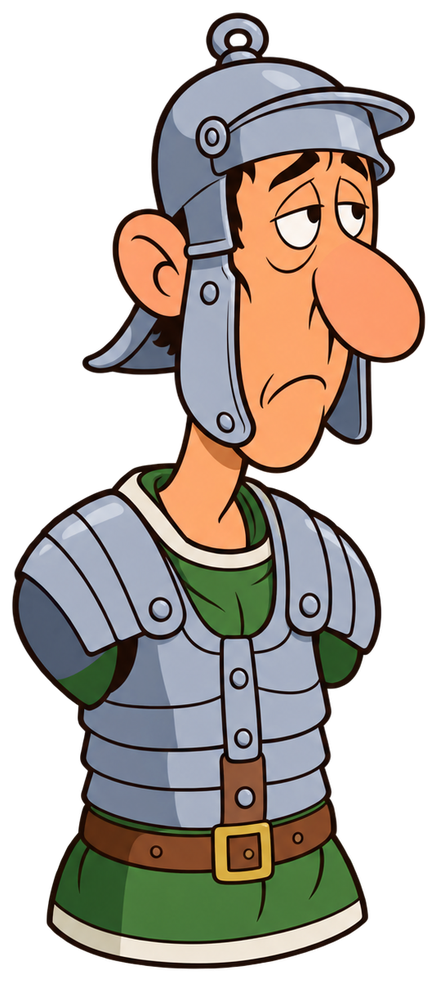
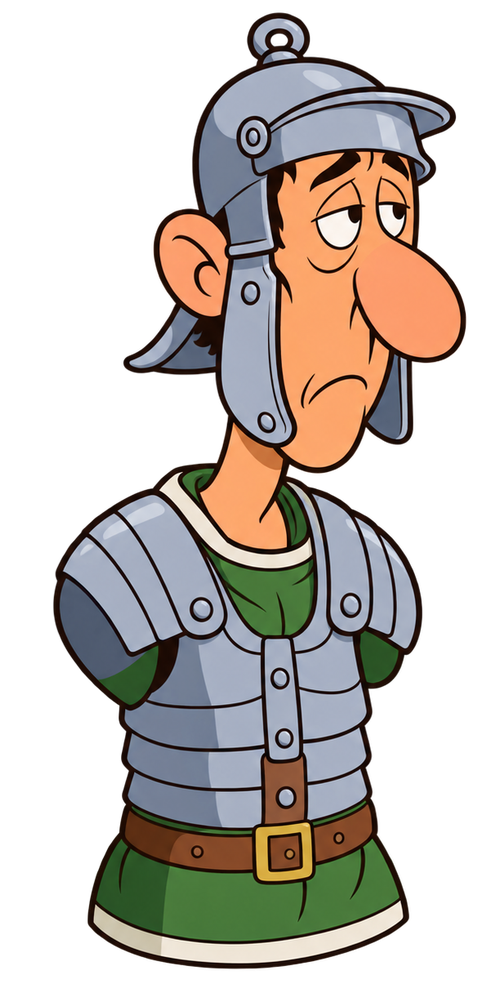
Gaul slice: centre the bodies on the hips and measure the shoulders
The bodies' torsos sat off the picture's centre (Asterix's wings and hair on
one side), so legs and arms hung beside them. ingest.py pads them so the
torso's middle is the centre (prep keeps the padding), and the rigs take the
measured widths: Asterix's shoulders 10 px from the axis instead of Utrace's
42, the legionary's 11 and his hips 8.

diff --git a/live/assets.js b/live/assets.js
@@ -1,1 +1,1 @@
-window.ASSETS = {"ab_field": {"w": 977, "h": 764, "crop": [14, 14, 991, 778], "scale": 1.0}, "ab_negotiate": {"w": 994, "h": 770, "crop": [14, 14, 1008, 784], "scale": 1.0}, "ab_overclock": {"w": 962, "h": 968, "crop": [14, 14, 976, 982], "scale": 1.0}, "ab_registry": {"w": 949, "h": 940, "crop": [14, 14, 963, 954], "scale": 1.0}, "ab_volley": {"w": 1001, "h": 963, "crop": [12, 14, 1013, 977], "scale": 1.0}, "baltika_arm": {"w": 215, "h": 448, "crop": [2, 2, 217, 450], "scale": 1.0}, "baltika_body": {"w": 545, "h": 658, "crop": [2, 2, 547, 660], "scale": 1.0}, "baltika_foot": {"w": 367, "h": 245, "crop": [2, 2, 369, 247], "scale": 1.0}, "baltika_leg": {"w": 197, "h": 426, "crop": [2, 2, 199, 428], "scale": 1.0}, "bar": {"w": 281, "h": 211, "crop": [2, 2, 283, 213], "scale": 1.0}, "batbank": {"w": 409, "h": 375, "crop": [2, 2, 411, 377], "scale": 1.0}, "batch_arm": {"w": 209, "h": 371, "crop": [2, 2, 211, 373], "scale": 1.0}, "batch_body": {"w": 801, "h": 691, "crop": [2, 0, 803, 691], "scale": 1.0}, "batch_foot": {"w": 373, "h": 239, "crop": [2, 2, 375, 241], "scale": 1.0}, "batch_leg": {"w": 197, "h": 372, "crop": [2, 2, 199, 374], "scale": 1.0}, "blade": {"w": 279, "h": 503, "crop": [2, 2, 281, 505], "scale": 1.0}, "boss_arm": {"w": 195, "h": 351, "crop": [2, 2, 197, 353], "scale": 1.0}, "boss_body": {"w": 888, "h": 682, "crop": [2, 2, 890, 684], "scale": 1.0}, "boss_foot": {"w": 377, "h": 211, "crop": [2, 2, 379, 213], "scale": 1.0}, "boss_leg": {"w": 162, "h": 326, "crop": [2, 2, 164, 328], "scale": 1.0}, "bug_arm": {"w": 56, "h": 170, "crop": [0, 0, 56, 170], "scale": 1.0}, "bug_body": {"w": 799, "h": 891, "crop": [2, 2, 801, 893], "scale": 1.0}, "bug_foot": {"w": 107, "h": 53, "crop": [2, 6, 109, 59], "scale": 1.0}, "bug_leg": {"w": 193, "h": 802, "crop": [2, 2, 195, 804], "scale": 1.0}, "buga_arm": {"w": 187, "h": 431, "crop": [2, 2, 189, 433], "scale": 1.0}, "buga_body": {"w": 613, "h": 567, "crop": [2, 2, 615, 569], "scale": 1.0}, "buga_foot": {"w": 380, "h": 233, "crop": [2, 2, 382, 235], "scale": 1.0}, "buga_leg": {"w": 155, "h": 423, "crop": [2, 2, 157, 425], "scale": 1.0}, "bugg_arm": {"w": 180, "h": 440, "crop": [2, 2, 182, 442], "scale": 1.0}, "bugg_body": {"w": 602, "h": 598, "crop": [2, 2, 604, 600], "scale": 1.0}, "bugg_foot": {"w": 378, "h": 235, "crop": [2, 2, 380, 237], "scale": 1.0}, "bugg_leg": {"w": 158, "h": 416, "crop": [2, 2, 160, 418], "scale": 1.0}, "bugl_arm": {"w": 228, "h": 397, "crop": [2, 2, 230, 399], "scale": 1.0}, "bugl_body": {"w": 705, "h": 611, "crop": [2, 0, 707, 611], "scale": 1.0}, "bugl_foot": {"w": 426, "h": 235, "crop": [2, 2, 428, 237], "scale": 1.0}, "bugl_leg": {"w": 183, "h": 374, "crop": [2, 2, 185, 376], "scale": 1.0}, "bugu_arm": {"w": 219, "h": 481, "crop": [2, 2, 221, 483], "scale": 1.0}, "bugu_body": {"w": 590, "h": 595, "crop": [2, 2, 592, 597], "scale": 1.0}, "bugu_foot": {"w": 412, "h": 247, "crop": [2, 2, 414, 249], "scale": 1.0}, "bugu_leg": {"w": 203, "h": 469, "crop": [2, 2, 205, 471], "scale": 1.0}, "cage": {"w": 979, "h": 1335, "crop": [23, 64, 1002, 1399], "scale": 1.0}, "cart": {"w": 283, "h": 461, "crop": [3, 2, 286, 463], "scale": 1.0}, "cart_b": {"w": 360, "h": 498, "crop": [2, 2, 362, 500], "scale": 1.0}, "cauldron": {"w": 800, "h": 897, "crop": [112, 98, 912, 995], "scale": 1.0}, "cell": {"w": 199, "h": 260, "crop": [2, 2, 201, 262], "scale": 1.0}, "cherk_arm": {"w": 232, "h": 504, "crop": [2, 2, 234, 506], "scale": 1.0}, "cherk_body": {"w": 744, "h": 630, "crop": [2, 2, 746, 632], "scale": 1.0}, "cherk_foot": {"w": 453, "h": 271, "crop": [2, 2, 455, 273], "scale": 1.0}, "cherk_leg": {"w": 217, "h": 487, "crop": [2, 2, 219, 489], "scale": 1.0}, "chest": {"w": 288, "h": 313, "crop": [14, 14, 302, 327], "scale": 1.0}, "core": {"w": 1022, "h": 1020, "crop": [259, 0, 1281, 1020], "scale": 1.0}, "crac": {"w": 414, "h": 293, "crop": [2, 2, 416, 295], "scale": 1.0}, "crates": {"w": 283, "h": 362, "crop": [2, 2, 285, 364], "scale": 1.0}, "crpt_arm": {"w": 200, "h": 356, "crop": [2, 2, 202, 358], "scale": 1.0}, "crpt_body": {"w": 692, "h": 683, "crop": [2, 2, 694, 685], "scale": 1.0}, "crpt_foot": {"w": 409, "h": 243, "crop": [2, 2, 411, 245], "scale": 1.0}, "crpt_leg": {"w": 151, "h": 346, "crop": [2, 2, 153, 348], "scale": 1.0}, "desk": {"w": 512, "h": 520, "crop": [2, 2, 514, 522], "scale": 1.0}, "dock": {"w": 316, "h": 268, "crop": [2, 2, 318, 270], "scale": 1.0}, "ferrero_arm": {"w": 240, "h": 434, "crop": [2, 2, 242, 436], "scale": 1.0}, "ferrero_body": {"w": 884, "h": 608, "crop": [2, 2, 886, 610], "scale": 1.0}, "ferrero_foot": {"w": 457, "h": 218, "crop": [2, 2, 459, 220], "scale": 1.0}, "ferrero_leg": {"w": 179, "h": 418, "crop": [2, 2, 181, 420], "scale": 1.0}, "firerack": {"w": 293, "h": 557, "crop": [2, 2, 295, 559], "scale": 1.0}, "gem": {"w": 182, "h": 244, "crop": [2, 2, 184, 246], "scale": 1.0}, "gem_b": {"w": 181, "h": 245, "crop": [2, 2, 183, 247], "scale": 1.0}, "gem_c": {"w": 181, "h": 242, "crop": [2, 2, 183, 244], "scale": 1.0}, "heal": {"w": 250, "h": 237, "crop": [2, 2, 252, 239], "scale": 1.0}, "hero_arm": {"w": 253, "h": 910, "crop": [2, 2, 255, 912], "scale": 1.0}, "hero_body": {"w": 697, "h": 544, "crop": [2, 2, 699, 546], "scale": 1.0}, "hero_foot": {"w": 327, "h": 222, "crop": [2, 2, 329, 224], "scale": 1.0}, "hero_leg": {"w": 208, "h": 845, "crop": [2, 2, 210, 847], "scale": 1.0}, "holopillar": {"w": 160, "h": 412, "crop": [2, 2, 162, 414], "scale": 1.0}, "hr_asterix_arm": {"w": 246, "h": 860, "crop": [2, 2, 248, 862], "scale": 1.0}, "hr_asterix_body": {"w": 763, "h": 979, "crop": [8, 8, 771, 987], "scale": 1.0}, "hr_asterix_foot": {"w": 655, "h": 451, "crop": [2, 2, 657, 453], "scale": 1.0}, "hr_asterix_leg": {"w": 219, "h": 765, "crop": [2, 2, 221, 767], "scale": 1.0}, "hr_ba_arm": {"w": 260, "h": 888, "crop": [2, 2, 262, 890], "scale": 1.0}, "hr_ba_body": {"w": 777, "h": 606, "crop": [2, 2, 779, 608], "scale": 1.0}, "hr_ba_foot": {"w": 341, "h": 206, "crop": [2, 2, 343, 208], "scale": 1.0}, "hr_ba_leg": {"w": 195, "h": 848, "crop": [2, 2, 197, 850], "scale": 1.0}, "hr_qa_arm": {"w": 179, "h": 844, "crop": [2, 2, 181, 846], "scale": 1.0}, "hr_qa_body": {"w": 703, "h": 572, "crop": [8, 8, 711, 580], "scale": 1.0}, "hr_qa_foot": {"w": 364, "h": 216, "crop": [8, 8, 372, 224], "scale": 1.0}, "hr_qa_leg": {"w": 178, "h": 888, "crop": [2, 2, 180, 890], "scale": 1.0}, "hr_ser_arm": {"w": 258, "h": 884, "crop": [2, 2, 260, 886], "scale": 1.0}, "hr_ser_body": {"w": 853, "h": 609, "crop": [2, 2, 855, 611], "scale": 1.0}, "hr_ser_foot": {"w": 314, "h": 220, "crop": [2, 2, 316, 222], "scale": 1.0}, "hr_ser_leg": {"w": 220, "h": 860, "crop": [2, 2, 222, 862], "scale": 1.0}, "hr_trc_arm": {"w": 261, "h": 831, "crop": [2, 2, 263, 833], "scale": 1.0}, "hr_trc_body": {"w": 710, "h": 599, "crop": [2, 2, 712, 601], "scale": 1.0}, "hr_trc_foot": {"w": 386, "h": 252, "crop": [2, 2, 388, 254], "scale": 1.0}, "hr_trc_leg": {"w": 159, "h": 837, "crop": [2, 2, 161, 839], "scale": 1.0}, "hut": {"w": 963, "h": 949, "crop": [32, 32, 995, 981], "scale": 1.0}, "ic_amount": {"w": 311, "h": 241, "crop": [14, 14, 325, 255], "scale": 1.0}, "ic_area": {"w": 211, "h": 210, "crop": [14, 14, 225, 224], "scale": 1.0}, "ic_cache": {"w": 269, "h": 223, "crop": [2, 2, 271, 225], "scale": 1.0}, "ic_chain": {"w": 362, "h": 276, "crop": [14, 14, 376, 290], "scale": 1.0}, "ic_cryo": {"w": 375, "h": 239, "crop": [14, 14, 389, 253], "scale": 1.0}, "ic_dur": {"w": 180, "h": 274, "crop": [14, 14, 194, 288], "scale": 1.0}, "ic_firewall": {"w": 807, "h": 931, "crop": [14, 14, 821, 945], "scale": 1.0}, "ic_fork": {"w": 317, "h": 270, "crop": [14, 14, 331, 284], "scale": 1.0}, "ic_haste": {"w": 218, "h": 249, "crop": [2, 2, 220, 251], "scale": 1.0}, "ic_homing": {"w": 289, "h": 195, "crop": [2, 2, 291, 197], "scale": 1.0}, "ic_hp": {"w": 302, "h": 190, "crop": [2, 2, 304, 192], "scale": 1.0}, "ic_magnet": {"w": 223, "h": 225, "crop": [2, 2, 225, 227], "scale": 1.0}, "ic_mine": {"w": 271, "h": 230, "crop": [2, 2, 273, 232], "scale": 1.0}, "ic_orbit": {"w": 264, "h": 201, "crop": [2, 2, 266, 203], "scale": 1.0}, "ic_packet": {"w": 930, "h": 612, "crop": [14, 14, 944, 626], "scale": 1.0}, "ic_ping": {"w": 256, "h": 187, "crop": [2, 2, 258, 189], "scale": 1.0}, "ic_power": {"w": 172, "h": 232, "crop": [2, 2, 174, 234], "scale": 1.0}, "ic_regress": {"w": 822, "h": 783, "crop": [14, 14, 836, 797], "scale": 1.0}, "ic_repair": {"w": 922, "h": 901, "crop": [14, 14, 936, 915], "scale": 1.0}, "ic_req": {"w": 974, "h": 811, "crop": [14, 14, 988, 825], "scale": 1.0}, "ic_retry": {"w": 206, "h": 205, "crop": [2, 2, 208, 207], "scale": 1.0}, "ic_shield": {"w": 955, "h": 816, "crop": [14, 14, 969, 830], "scale": 1.0}, "ic_speed": {"w": 367, "h": 203, "crop": [2, 2, 369, 205], "scale": 1.0}, "ic_storm": {"w": 385, "h": 314, "crop": [14, 14, 399, 328], "scale": 1.0}, "ic_tchain": {"w": 972, "h": 982, "crop": [14, 14, 986, 996], "scale": 1.0}, "ic_trace": {"w": 292, "h": 226, "crop": [2, 2, 294, 228], "scale": 1.0}, "ic_turret": {"w": 206, "h": 267, "crop": [14, 14, 220, 281], "scale": 1.0}, "ic_udp": {"w": 341, "h": 245, "crop": [14, 14, 355, 259], "scale": 1.0}, "ic_x_cache": {"w": 294, "h": 262, "crop": [6, 6, 300, 268], "scale": 1.0}, "ic_x_chain": {"w": 288, "h": 259, "crop": [6, 6, 294, 265], "scale": 1.0}, "ic_x_cryo": {"w": 276, "h": 286, "crop": [6, 6, 282, 292], "scale": 1.0}, "ic_x_fork": {"w": 331, "h": 288, "crop": [6, 6, 337, 294], "scale": 1.0}, "ic_x_homing": {"w": 285, "h": 230, "crop": [6, 6, 291, 236], "scale": 1.0}, "ic_x_mine": {"w": 275, "h": 230, "crop": [6, 6, 281, 236], "scale": 1.0}, "ic_x_orbit": {"w": 258, "h": 230, "crop": [6, 6, 264, 236], "scale": 1.0}, "ic_x_packet": {"w": 978, "h": 702, "crop": [14, 14, 992, 716], "scale": 1.0}, "ic_x_ping": {"w": 262, "h": 223, "crop": [6, 6, 268, 229], "scale": 1.0}, "ic_x_regress": {"w": 868, "h": 852, "crop": [14, 14, 882, 866], "scale": 1.0}, "ic_x_req": {"w": 1001, "h": 872, "crop": [12, 14, 1013, 886], "scale": 1.0}, "ic_x_retry": {"w": 285, "h": 261, "crop": [6, 6, 291, 267], "scale": 1.0}, "ic_x_shield": {"w": 991, "h": 900, "crop": [14, 14, 1005, 914], "scale": 1.0}, "ic_x_storm": {"w": 281, "h": 292, "crop": [6, 6, 287, 298], "scale": 1.0}, "ic_x_tchain": {"w": 953, "h": 866, "crop": [14, 14, 967, 880], "scale": 1.0}, "ic_x_trace": {"w": 297, "h": 205, "crop": [6, 6, 303, 211], "scale": 1.0}, "ic_x_turret": {"w": 349, "h": 248, "crop": [6, 6, 355, 254], "scale": 1.0}, "ic_x_udp": {"w": 269, "h": 266, "crop": [6, 6, 275, 272], "scale": 1.0}, "keg_arm": {"w": 254, "h": 465, "crop": [2, 2, 256, 467], "scale": 1.0}, "keg_body": {"w": 623, "h": 586, "crop": [2, 2, 625, 588], "scale": 1.0}, "keg_foot": {"w": 475, "h": 309, "crop": [2, 2, 477, 311], "scale": 1.0}, "keg_leg": {"w": 206, "h": 463, "crop": [2, 2, 208, 465], "scale": 1.0}, "legion_arm": {"w": 182, "h": 682, "crop": [2, 2, 184, 684], "scale": 1.0}, "legion_body": {"w": 422, "h": 965, "crop": [8, 8, 430, 973], "scale": 1.0}, "legion_foot": {"w": 784, "h": 503, "crop": [2, 2, 786, 505], "scale": 1.0}, "legion_leg": {"w": 205, "h": 872, "crop": [2, 2, 207, 874], "scale": 1.0}, "logq_arm": {"w": 259, "h": 395, "crop": [2, 2, 261, 397], "scale": 1.0}, "logq_body": {"w": 702, "h": 575, "crop": [2, 2, 704, 577], "scale": 1.0}, "logq_foot": {"w": 424, "h": 303, "crop": [2, 2, 426, 305], "scale": 1.0}, "logq_leg": {"w": 182, "h": 389, "crop": [2, 2, 184, 391], "scale": 1.0}, "loreal_arm": {"w": 232, "h": 498, "crop": [2, 2, 234, 500], "scale": 1.0}, "loreal_body": {"w": 792, "h": 605, "crop": [2, 2, 794, 607], "scale": 1.0}, "loreal_foot": {"w": 498, "h": 292, "crop": [2, 2, 500, 294], "scale": 1.0}, "loreal_leg": {"w": 194, "h": 479, "crop": [2, 2, 196, 481], "scale": 1.0}, "manifold": {"w": 366, "h": 406, "crop": [2, 2, 368, 408], "scale": 1.0}, "mars_arm": {"w": 198, "h": 486, "crop": [2, 2, 200, 488], "scale": 1.0}, "mars_body": {"w": 627, "h": 480, "crop": [2, 2, 629, 482], "scale": 1.0}, "mars_foot": {"w": 425, "h": 278, "crop": [2, 2, 427, 280], "scale": 1.0}, "mars_leg": {"w": 185, "h": 454, "crop": [2, 2, 187, 456], "scale": 1.0}, "mast": {"w": 241, "h": 412, "crop": [2, 2, 243, 414], "scale": 1.0}, "menhir": {"w": 400, "h": 971, "crop": [325, 26, 725, 997], "scale": 1.0}, "mond_arm": {"w": 229, "h": 470, "crop": [2, 2, 231, 472], "scale": 1.0}, "mond_body": {"w": 1372, "h": 531, "crop": [2, 2, 1374, 533], "scale": 1.0}, "mond_foot": {"w": 454, "h": 279, "crop": [2, 2, 456, 281], "scale": 1.0}, "mond_leg": {"w": 184, "h": 447, "crop": [2, 2, 186, 449], "scale": 1.0}, "multon_arm": {"w": 230, "h": 485, "crop": [2, 2, 232, 487], "scale": 1.0}, "multon_body": {"w": 625, "h": 538, "crop": [2, 2, 627, 540], "scale": 1.0}, "multon_foot": {"w": 502, "h": 321, "crop": [2, 2, 504, 323], "scale": 1.0}, "multon_leg": {"w": 210, "h": 475, "crop": [2, 2, 212, 477], "scale": 1.0}, "node_arm": {"w": 217, "h": 422, "crop": [2, 2, 219, 424], "scale": 1.0}, "node_body": {"w": 502, "h": 624, "crop": [2, 2, 504, 626], "scale": 1.0}, "node_foot": {"w": 379, "h": 258, "crop": [2, 2, 381, 260], "scale": 1.0}, "node_leg": {"w": 180, "h": 401, "crop": [2, 2, 182, 403], "scale": 1.0}, "orb_arm": {"w": 202, "h": 419, "crop": [2, 2, 204, 421], "scale": 1.0}, "orb_body": {"w": 577, "h": 570, "crop": [2, 2, 579, 572], "scale": 1.0}, "orb_foot": {"w": 411, "h": 275, "crop": [2, 2, 413, 277], "scale": 1.0}, "orb_leg": {"w": 177, "h": 401, "crop": [2, 2, 179, 403], "scale": 1.0}, "outage_arm": {"w": 429, "h": 464, "crop": [2, 3, 431, 467], "scale": 1.0}, "outage_body": {"w": 1065, "h": 613, "crop": [2, 2, 1067, 615], "scale": 1.0}, "outage_foot": {"w": 391, "h": 296, "crop": [2, 2, 393, 298], "scale": 1.0}, "outage_leg": {"w": 318, "h": 494, "crop": [2, 2, 320, 496], "scale": 1.0}, "panel_arm": {"w": 241, "h": 440, "crop": [2, 2, 243, 442], "scale": 1.0}, "panel_body": {"w": 617, "h": 568, "crop": [2, 2, 619, 570], "scale": 1.0}, "panel_foot": {"w": 465, "h": 269, "crop": [2, 2, 467, 271], "scale": 1.0}, "panel_leg": {"w": 203, "h": 404, "crop": [2, 2, 205, 406], "scale": 1.0}, "patch": {"w": 185, "h": 668, "crop": [2, 2, 187, 670], "scale": 1.0}, "pdu": {"w": 224, "h": 260, "crop": [2, 2, 226, 262], "scale": 1.0}, "petfood_arm": {"w": 192, "h": 410, "crop": [2, 2, 194, 412], "scale": 1.0}, "petfood_body": {"w": 583, "h": 594, "crop": [2, 2, 585, 596], "scale": 1.0}, "petfood_foot": {"w": 355, "h": 255, "crop": [2, 2, 357, 257], "scale": 1.0}, "petfood_leg": {"w": 174, "h": 368, "crop": [2, 2, 176, 370], "scale": 1.0}, "pg_arm": {"w": 201, "h": 390, "crop": [2, 2, 203, 392], "scale": 1.0}, "pg_body": {"w": 685, "h": 631, "crop": [2, 2, 687, 633], "scale": 1.0}, "pg_foot": {"w": 362, "h": 257, "crop": [2, 2, 364, 259], "scale": 1.0}, "pg_leg": {"w": 184, "h": 370, "crop": [2, 2, 186, 372], "scale": 1.0}, "prog_arm": {"w": 198, "h": 430, "crop": [2, 2, 200, 432], "scale": 1.0}, "prog_body": {"w": 664, "h": 609, "crop": [2, 2, 666, 611], "scale": 1.0}, "prog_foot": {"w": 436, "h": 279, "crop": [2, 2, 438, 281], "scale": 1.0}, "prog_leg": {"w": 182, "h": 429, "crop": [2, 2, 184, 431], "scale": 1.0}, "rack": {"w": 180, "h": 420, "crop": [2, 2, 182, 422], "scale": 1.0}, "rack_b": {"w": 178, "h": 417, "crop": [2, 2, 180, 419], "scale": 1.0}, "rack_open": {"w": 284, "h": 424, "crop": [2, 2, 286, 426], "scale": 1.0}, "repl_arm": {"w": 368, "h": 445, "crop": [2, 2, 370, 447], "scale": 1.0}, "repl_body": {"w": 1357, "h": 553, "crop": [2, 2, 1359, 555], "scale": 1.0}, "repl_foot": {"w": 417, "h": 249, "crop": [2, 2, 419, 251], "scale": 1.0}, "repl_leg": {"w": 284, "h": 449, "crop": [2, 2, 286, 451], "scale": 1.0}, "royal_arm": {"w": 209, "h": 401, "crop": [2, 2, 211, 403], "scale": 1.0}, "royal_body": {"w": 947, "h": 596, "crop": [2, 2, 949, 598], "scale": 1.0}, "royal_foot": {"w": 368, "h": 243, "crop": [2, 2, 370, 245], "scale": 1.0}, "royal_leg": {"w": 164, "h": 384, "crop": [2, 3, 166, 387], "scale": 1.0}, "rstorm_arm": {"w": 263, "h": 414, "crop": [2, 2, 265, 416], "scale": 1.0}, "rstorm_body": {"w": 803, "h": 649, "crop": [2, 2, 805, 651], "scale": 1.0}, "rstorm_foot": {"w": 413, "h": 245, "crop": [2, 2, 415, 247], "scale": 1.0}, "rstorm_leg": {"w": 236, "h": 386, "crop": [2, 2, 238, 388], "scale": 1.0}, "scanner": {"w": 280, "h": 267, "crop": [2, 2, 282, 269], "scale": 1.0}, "sdesk_body": {"w": 1435, "h": 984, "crop": [2, 2, 1437, 986], "scale": 1.0}, "sk_ba_consult_arm": {"w": 377, "h": 1262, "crop": [2, 2, 379, 1264], "scale": 1.0}, "sk_ba_consult_body": {"w": 1022, "h": 798, "crop": [8, 8, 1030, 806], "scale": 1.0}, "sk_ba_consult_foot": {"w": 1248, "h": 751, "crop": [2, 2, 1250, 753], "scale": 1.0}, "sk_ba_consult_leg": {"w": 291, "h": 1274, "crop": [2, 2, 293, 1276], "scale": 1.0}, "sk_ba_deadline_arm": {"w": 380, "h": 1269, "crop": [2, 2, 382, 1271], "scale": 1.0}, "sk_ba_deadline_body": {"w": 1093, "h": 856, "crop": [8, 8, 1101, 864], "scale": 1.0}, "sk_ba_deadline_foot": {"w": 1319, "h": 764, "crop": [2, 2, 1321, 766], "scale": 1.0}, "sk_ba_deadline_leg": {"w": 309, "h": 1269, "crop": [2, 2, 311, 1271], "scale": 1.0}, "sk_ba_platinum_arm": {"w": 351, "h": 1250, "crop": [2, 2, 353, 1252], "scale": 1.0}, "sk_ba_platinum_body": {"w": 1025, "h": 775, "crop": [8, 8, 1033, 783], "scale": 1.0}, "sk_ba_platinum_foot": {"w": 1246, "h": 749, "crop": [2, 2, 1248, 751], "scale": 1.0}, "sk_ba_platinum_leg": {"w": 289, "h": 1252, "crop": [2, 2, 291, 1254], "scale": 1.0}, "sk_qa_crash_arm": {"w": 287, "h": 1363, "crop": [2, 2, 289, 1365], "scale": 1.0}, "sk_qa_crash_body": {"w": 1154, "h": 935, "crop": [8, 8, 1162, 943], "scale": 1.0}, "sk_qa_crash_foot": {"w": 1294, "h": 775, "crop": [2, 2, 1296, 777], "scale": 1.0}, "sk_qa_crash_leg": {"w": 251, "h": 1251, "crop": [2, 2, 253, 1253], "scale": 1.0}, "sk_qa_onyx_arm": {"w": 269, "h": 1251, "crop": [2, 2, 271, 1253], "scale": 1.0}, "sk_qa_onyx_body": {"w": 926, "h": 758, "crop": [8, 8, 934, 766], "scale": 1.0}, "sk_qa_onyx_foot": {"w": 1245, "h": 736, "crop": [2, 2, 1247, 738], "scale": 1.0}, "sk_qa_onyx_leg": {"w": 253, "h": 1278, "crop": [2, 2, 255, 1280], "scale": 1.0}, "sk_qa_sandbox_arm": {"w": 271, "h": 1254, "crop": [2, 2, 273, 1256], "scale": 1.0}, "sk_qa_sandbox_body": {"w": 954, "h": 767, "crop": [8, 8, 962, 775], "scale": 1.0}, "sk_qa_sandbox_foot": {"w": 1254, "h": 740, "crop": [2, 2, 1256, 742], "scale": 1.0}, "sk_qa_sandbox_leg": {"w": 250, "h": 1259, "crop": [2, 2, 252, 1261], "scale": 1.0}, "sk_ser_breach_arm": {"w": 384, "h": 1274, "crop": [2, 2, 386, 1276], "scale": 1.0}, "sk_ser_breach_body": {"w": 1204, "h": 840, "crop": [8, 8, 1212, 848], "scale": 1.0}, "sk_ser_breach_foot": {"w": 1212, "h": 849, "crop": [2, 3, 1214, 852], "scale": 1.0}, "sk_ser_breach_leg": {"w": 318, "h": 1245, "crop": [2, 2, 320, 1247], "scale": 1.0}, "sk_ser_cloud_arm": {"w": 374, "h": 1256, "crop": [2, 2, 376, 1258], "scale": 1.0}, "sk_ser_cloud_body": {"w": 1077, "h": 766, "crop": [8, 8, 1085, 774], "scale": 1.0}, "sk_ser_cloud_foot": {"w": 1214, "h": 840, "crop": [2, 2, 1216, 842], "scale": 1.0}, "sk_ser_cloud_leg": {"w": 321, "h": 1254, "crop": [2, 2, 323, 1256], "scale": 1.0}, "sk_ser_cobalt_arm": {"w": 379, "h": 1277, "crop": [2, 2, 381, 1279], "scale": 1.0}, "sk_ser_cobalt_body": {"w": 1198, "h": 846, "crop": [8, 8, 1206, 854], "scale": 1.0}, "sk_ser_cobalt_foot": {"w": 1203, "h": 834, "crop": [2, 2, 1205, 836], "scale": 1.0}, "sk_ser_cobalt_leg": {"w": 320, "h": 1247, "crop": [2, 2, 322, 1249], "scale": 1.0}, "sk_trc_intercept_arm": {"w": 392, "h": 1260, "crop": [2, 2, 394, 1262], "scale": 1.0}, "sk_trc_intercept_body": {"w": 1077, "h": 910, "crop": [8, 8, 1085, 918], "scale": 1.0}, "sk_trc_intercept_foot": {"w": 1315, "h": 823, "crop": [2, 2, 1317, 825], "scale": 1.0}, "sk_trc_intercept_leg": {"w": 255, "h": 1325, "crop": [2, 2, 257, 1327], "scale": 1.0}, "sk_trc_sapphire_arm": {"w": 387, "h": 1272, "crop": [2, 2, 389, 1274], "scale": 1.0}, "sk_trc_sapphire_body": {"w": 916, "h": 761, "crop": [8, 8, 924, 769], "scale": 1.0}, "sk_trc_sapphire_foot": {"w": 1257, "h": 804, "crop": [2, 2, 1259, 806], "scale": 1.0}, "sk_trc_sapphire_leg": {"w": 234, "h": 1248, "crop": [2, 2, 236, 1250], "scale": 1.0}, "sk_trc_still_arm": {"w": 399, "h": 1254, "crop": [2, 2, 401, 1256], "scale": 1.0}, "sk_trc_still_body": {"w": 895, "h": 760, "crop": [8, 8, 903, 768], "scale": 1.0}, "sk_trc_still_foot": {"w": 1289, "h": 815, "crop": [2, 2, 1291, 817], "scale": 1.0}, "sk_trc_still_leg": {"w": 234, "h": 1251, "crop": [2, 2, 236, 1253], "scale": 1.0}, "sk_utrace_arctic_arm": {"w": 243, "h": 837, "crop": [2, 2, 245, 839], "scale": 1.0}, "sk_utrace_arctic_body": {"w": 738, "h": 565, "crop": [2, 2, 740, 567], "scale": 1.0}, "sk_utrace_arctic_foot": {"w": 402, "h": 265, "crop": [2, 2, 404, 267], "scale": 1.0}, "sk_utrace_arctic_leg": {"w": 224, "h": 826, "crop": [2, 2, 226, 828], "scale": 1.0}, "sk_utrace_storm_arm": {"w": 280, "h": 927, "crop": [2, 2, 282, 929], "scale": 1.0}, "sk_utrace_storm_body": {"w": 713, "h": 569, "crop": [2, 2, 715, 571], "scale": 1.0}, "sk_utrace_storm_foot": {"w": 397, "h": 250, "crop": [2, 2, 399, 252], "scale": 1.0}, "sk_utrace_storm_leg": {"w": 220, "h": 872, "crop": [2, 2, 222, 874], "scale": 1.0}, "sk_utrace_zen_arm": {"w": 242, "h": 806, "crop": [2, 2, 244, 808], "scale": 1.0}, "sk_utrace_zen_body": {"w": 742, "h": 567, "crop": [2, 2, 744, 569], "scale": 1.0}, "sk_utrace_zen_foot": {"w": 362, "h": 244, "crop": [2, 2, 364, 246], "scale": 1.0}, "sk_utrace_zen_leg": {"w": 206, "h": 771, "crop": [2, 2, 208, 773], "scale": 1.0}, "spool": {"w": 352, "h": 409, "crop": [2, 3, 354, 412], "scale": 1.0}, "switch": {"w": 280, "h": 374, "crop": [2, 2, 282, 376], "scale": 1.0}, "switchstack": {"w": 203, "h": 451, "crop": [2, 2, 205, 453], "scale": 1.0}, "sword": {"w": 1311, "h": 358, "crop": [2, 2, 1313, 360], "scale": 1.0}, "tapelib": {"w": 315, "h": 681, "crop": [2, 2, 317, 683], "scale": 1.0}, "tray": {"w": 325, "h": 367, "crop": [2, 2, 327, 369], "scale": 1.0}, "turret": {"w": 360, "h": 418, "crop": [14, 14, 374, 432], "scale": 1.0}, "ups": {"w": 298, "h": 227, "crop": [2, 2, 300, 229], "scale": 1.0}, "vetis_arm": {"w": 206, "h": 415, "crop": [2, 2, 208, 417], "scale": 1.0}, "vetis_body": {"w": 594, "h": 663, "crop": [2, 2, 596, 665], "scale": 1.0}, "vetis_foot": {"w": 379, "h": 253, "crop": [2, 2, 381, 255], "scale": 1.0}, "vetis_leg": {"w": 179, "h": 412, "crop": [2, 2, 181, 414], "scale": 1.0}};
+window.ASSETS = {"ab_field": {"w": 977, "h": 764, "crop": [14, 14, 991, 778], "scale": 1.0}, "ab_negotiate": {"w": 994, "h": 770, "crop": [14, 14, 1008, 784], "scale": 1.0}, "ab_overclock": {"w": 962, "h": 968, "crop": [14, 14, 976, 982], "scale": 1.0}, "ab_registry": {"w": 949, "h": 940, "crop": [14, 14, 963, 954], "scale": 1.0}, "ab_volley": {"w": 1001, "h": 963, "crop": [12, 14, 1013, 977], "scale": 1.0}, "baltika_arm": {"w": 215, "h": 448, "crop": [2, 2, 217, 450], "scale": 1.0}, "baltika_body": {"w": 545, "h": 658, "crop": [2, 2, 547, 660], "scale": 1.0}, "baltika_foot": {"w": 367, "h": 245, "crop": [2, 2, 369, 247], "scale": 1.0}, "baltika_leg": {"w": 197, "h": 426, "crop": [2, 2, 199, 428], "scale": 1.0}, "bar": {"w": 281, "h": 211, "crop": [2, 2, 283, 213], "scale": 1.0}, "batbank": {"w": 409, "h": 375, "crop": [2, 2, 411, 377], "scale": 1.0}, "batch_arm": {"w": 209, "h": 371, "crop": [2, 2, 211, 373], "scale": 1.0}, "batch_body": {"w": 801, "h": 691, "crop": [2, 0, 803, 691], "scale": 1.0}, "batch_foot": {"w": 373, "h": 239, "crop": [2, 2, 375, 241], "scale": 1.0}, "batch_leg": {"w": 197, "h": 372, "crop": [2, 2, 199, 374], "scale": 1.0}, "blade": {"w": 279, "h": 503, "crop": [2, 2, 281, 505], "scale": 1.0}, "boss_arm": {"w": 195, "h": 351, "crop": [2, 2, 197, 353], "scale": 1.0}, "boss_body": {"w": 888, "h": 682, "crop": [2, 2, 890, 684], "scale": 1.0}, "boss_foot": {"w": 377, "h": 211, "crop": [2, 2, 379, 213], "scale": 1.0}, "boss_leg": {"w": 162, "h": 326, "crop": [2, 2, 164, 328], "scale": 1.0}, "bug_arm": {"w": 56, "h": 170, "crop": [0, 0, 56, 170], "scale": 1.0}, "bug_body": {"w": 799, "h": 891, "crop": [2, 2, 801, 893], "scale": 1.0}, "bug_foot": {"w": 107, "h": 53, "crop": [2, 6, 109, 59], "scale": 1.0}, "bug_leg": {"w": 193, "h": 802, "crop": [2, 2, 195, 804], "scale": 1.0}, "buga_arm": {"w": 187, "h": 431, "crop": [2, 2, 189, 433], "scale": 1.0}, "buga_body": {"w": 613, "h": 567, "crop": [2, 2, 615, 569], "scale": 1.0}, "buga_foot": {"w": 380, "h": 233, "crop": [2, 2, 382, 235], "scale": 1.0}, "buga_leg": {"w": 155, "h": 423, "crop": [2, 2, 157, 425], "scale": 1.0}, "bugg_arm": {"w": 180, "h": 440, "crop": [2, 2, 182, 442], "scale": 1.0}, "bugg_body": {"w": 602, "h": 598, "crop": [2, 2, 604, 600], "scale": 1.0}, "bugg_foot": {"w": 378, "h": 235, "crop": [2, 2, 380, 237], "scale": 1.0}, "bugg_leg": {"w": 158, "h": 416, "crop": [2, 2, 160, 418], "scale": 1.0}, "bugl_arm": {"w": 228, "h": 397, "crop": [2, 2, 230, 399], "scale": 1.0}, "bugl_body": {"w": 705, "h": 611, "crop": [2, 0, 707, 611], "scale": 1.0}, "bugl_foot": {"w": 426, "h": 235, "crop": [2, 2, 428, 237], "scale": 1.0}, "bugl_leg": {"w": 183, "h": 374, "crop": [2, 2, 185, 376], "scale": 1.0}, "bugu_arm": {"w": 219, "h": 481, "crop": [2, 2, 221, 483], "scale": 1.0}, "bugu_body": {"w": 590, "h": 595, "crop": [2, 2, 592, 597], "scale": 1.0}, "bugu_foot": {"w": 412, "h": 247, "crop": [2, 2, 414, 249], "scale": 1.0}, "bugu_leg": {"w": 203, "h": 469, "crop": [2, 2, 205, 471], "scale": 1.0}, "cage": {"w": 979, "h": 1335, "crop": [23, 64, 1002, 1399], "scale": 1.0}, "cart": {"w": 283, "h": 461, "crop": [3, 2, 286, 463], "scale": 1.0}, "cart_b": {"w": 360, "h": 498, "crop": [2, 2, 362, 500], "scale": 1.0}, "cauldron": {"w": 800, "h": 897, "crop": [112, 98, 912, 995], "scale": 1.0}, "cell": {"w": 199, "h": 260, "crop": [2, 2, 201, 262], "scale": 1.0}, "cherk_arm": {"w": 232, "h": 504, "crop": [2, 2, 234, 506], "scale": 1.0}, "cherk_body": {"w": 744, "h": 630, "crop": [2, 2, 746, 632], "scale": 1.0}, "cherk_foot": {"w": 453, "h": 271, "crop": [2, 2, 455, 273], "scale": 1.0}, "cherk_leg": {"w": 217, "h": 487, "crop": [2, 2, 219, 489], "scale": 1.0}, "chest": {"w": 288, "h": 313, "crop": [14, 14, 302, 327], "scale": 1.0}, "core": {"w": 1022, "h": 1020, "crop": [259, 0, 1281, 1020], "scale": 1.0}, "crac": {"w": 414, "h": 293, "crop": [2, 2, 416, 295], "scale": 1.0}, "crates": {"w": 283, "h": 362, "crop": [2, 2, 285, 364], "scale": 1.0}, "crpt_arm": {"w": 200, "h": 356, "crop": [2, 2, 202, 358], "scale": 1.0}, "crpt_body": {"w": 692, "h": 683, "crop": [2, 2, 694, 685], "scale": 1.0}, "crpt_foot": {"w": 409, "h": 243, "crop": [2, 2, 411, 245], "scale": 1.0}, "crpt_leg": {"w": 151, "h": 346, "crop": [2, 2, 153, 348], "scale": 1.0}, "desk": {"w": 512, "h": 520, "crop": [2, 2, 514, 522], "scale": 1.0}, "dock": {"w": 316, "h": 268, "crop": [2, 2, 318, 270], "scale": 1.0}, "ferrero_arm": {"w": 240, "h": 434, "crop": [2, 2, 242, 436], "scale": 1.0}, "ferrero_body": {"w": 884, "h": 608, "crop": [2, 2, 886, 610], "scale": 1.0}, "ferrero_foot": {"w": 457, "h": 218, "crop": [2, 2, 459, 220], "scale": 1.0}, "ferrero_leg": {"w": 179, "h": 418, "crop": [2, 2, 181, 420], "scale": 1.0}, "firerack": {"w": 293, "h": 557, "crop": [2, 2, 295, 559], "scale": 1.0}, "gem": {"w": 182, "h": 244, "crop": [2, 2, 184, 246], "scale": 1.0}, "gem_b": {"w": 181, "h": 245, "crop": [2, 2, 183, 247], "scale": 1.0}, "gem_c": {"w": 181, "h": 242, "crop": [2, 2, 183, 244], "scale": 1.0}, "heal": {"w": 250, "h": 237, "crop": [2, 2, 252, 239], "scale": 1.0}, "hero_arm": {"w": 253, "h": 910, "crop": [2, 2, 255, 912], "scale": 1.0}, "hero_body": {"w": 697, "h": 544, "crop": [2, 2, 699, 546], "scale": 1.0}, "hero_foot": {"w": 327, "h": 222, "crop": [2, 2, 329, 224], "scale": 1.0}, "hero_leg": {"w": 208, "h": 845, "crop": [2, 2, 210, 847], "scale": 1.0}, "holopillar": {"w": 160, "h": 412, "crop": [2, 2, 162, 414], "scale": 1.0}, "hr_asterix_arm": {"w": 246, "h": 860, "crop": [2, 2, 248, 862], "scale": 1.0}, "hr_asterix_body": {"w": 976, "h": 995, "crop": [0, 0, 976, 995], "scale": 1.0}, "hr_asterix_foot": {"w": 655, "h": 451, "crop": [2, 2, 657, 453], "scale": 1.0}, "hr_asterix_leg": {"w": 219, "h": 765, "crop": [2, 2, 221, 767], "scale": 1.0}, "hr_ba_arm": {"w": 260, "h": 888, "crop": [2, 2, 262, 890], "scale": 1.0}, "hr_ba_body": {"w": 777, "h": 606, "crop": [2, 2, 779, 608], "scale": 1.0}, "hr_ba_foot": {"w": 341, "h": 206, "crop": [2, 2, 343, 208], "scale": 1.0}, "hr_ba_leg": {"w": 195, "h": 848, "crop": [2, 2, 197, 850], "scale": 1.0}, "hr_qa_arm": {"w": 179, "h": 844, "crop": [2, 2, 181, 846], "scale": 1.0}, "hr_qa_body": {"w": 703, "h": 572, "crop": [8, 8, 711, 580], "scale": 1.0}, "hr_qa_foot": {"w": 364, "h": 216, "crop": [8, 8, 372, 224], "scale": 1.0}, "hr_qa_leg": {"w": 178, "h": 888, "crop": [2, 2, 180, 890], "scale": 1.0}, "hr_ser_arm": {"w": 258, "h": 884, "crop": [2, 2, 260, 886], "scale": 1.0}, "hr_ser_body": {"w": 853, "h": 609, "crop": [2, 2, 855, 611], "scale": 1.0}, "hr_ser_foot": {"w": 314, "h": 220, "crop": [2, 2, 316, 222], "scale": 1.0}, "hr_ser_leg": {"w": 220, "h": 860, "crop": [2, 2, 222, 862], "scale": 1.0}, "hr_trc_arm": {"w": 261, "h": 831, "crop": [2, 2, 263, 833], "scale": 1.0}, "hr_trc_body": {"w": 710, "h": 599, "crop": [2, 2, 712, 601], "scale": 1.0}, "hr_trc_foot": {"w": 386, "h": 252, "crop": [2, 2, 388, 254], "scale": 1.0}, "hr_trc_leg": {"w": 159, "h": 837, "crop": [2, 2, 161, 839], "scale": 1.0}, "hut": {"w": 963, "h": 949, "crop": [32, 32, 995, 981], "scale": 1.0}, "ic_amount": {"w": 311, "h": 241, "crop": [14, 14, 325, 255], "scale": 1.0}, "ic_area": {"w": 211, "h": 210, "crop": [14, 14, 225, 224], "scale": 1.0}, "ic_cache": {"w": 269, "h": 223, "crop": [2, 2, 271, 225], "scale": 1.0}, "ic_chain": {"w": 362, "h": 276, "crop": [14, 14, 376, 290], "scale": 1.0}, "ic_cryo": {"w": 375, "h": 239, "crop": [14, 14, 389, 253], "scale": 1.0}, "ic_dur": {"w": 180, "h": 274, "crop": [14, 14, 194, 288], "scale": 1.0}, "ic_firewall": {"w": 807, "h": 931, "crop": [14, 14, 821, 945], "scale": 1.0}, "ic_fork": {"w": 317, "h": 270, "crop": [14, 14, 331, 284], "scale": 1.0}, "ic_haste": {"w": 218, "h": 249, "crop": [2, 2, 220, 251], "scale": 1.0}, "ic_homing": {"w": 289, "h": 195, "crop": [2, 2, 291, 197], "scale": 1.0}, "ic_hp": {"w": 302, "h": 190, "crop": [2, 2, 304, 192], "scale": 1.0}, "ic_magnet": {"w": 223, "h": 225, "crop": [2, 2, 225, 227], "scale": 1.0}, "ic_mine": {"w": 271, "h": 230, "crop": [2, 2, 273, 232], "scale": 1.0}, "ic_orbit": {"w": 264, "h": 201, "crop": [2, 2, 266, 203], "scale": 1.0}, "ic_packet": {"w": 930, "h": 612, "crop": [14, 14, 944, 626], "scale": 1.0}, "ic_ping": {"w": 256, "h": 187, "crop": [2, 2, 258, 189], "scale": 1.0}, "ic_power": {"w": 172, "h": 232, "crop": [2, 2, 174, 234], "scale": 1.0}, "ic_regress": {"w": 822, "h": 783, "crop": [14, 14, 836, 797], "scale": 1.0}, "ic_repair": {"w": 922, "h": 901, "crop": [14, 14, 936, 915], "scale": 1.0}, "ic_req": {"w": 974, "h": 811, "crop": [14, 14, 988, 825], "scale": 1.0}, "ic_retry": {"w": 206, "h": 205, "crop": [2, 2, 208, 207], "scale": 1.0}, "ic_shield": {"w": 955, "h": 816, "crop": [14, 14, 969, 830], "scale": 1.0}, "ic_speed": {"w": 367, "h": 203, "crop": [2, 2, 369, 205], "scale": 1.0}, "ic_storm": {"w": 385, "h": 314, "crop": [14, 14, 399, 328], "scale": 1.0}, "ic_tchain": {"w": 972, "h": 982, "crop": [14, 14, 986, 996], "scale": 1.0}, "ic_trace": {"w": 292, "h": 226, "crop": [2, 2, 294, 228], "scale": 1.0}, "ic_turret": {"w": 206, "h": 267, "crop": [14, 14, 220, 281], "scale": 1.0}, "ic_udp": {"w": 341, "h": 245, "crop": [14, 14, 355, 259], "scale": 1.0}, "ic_x_cache": {"w": 294, "h": 262, "crop": [6, 6, 300, 268], "scale": 1.0}, "ic_x_chain": {"w": 288, "h": 259, "crop": [6, 6, 294, 265], "scale": 1.0}, "ic_x_cryo": {"w": 276, "h": 286, "crop": [6, 6, 282, 292], "scale": 1.0}, "ic_x_fork": {"w": 331, "h": 288, "crop": [6, 6, 337, 294], "scale": 1.0}, "ic_x_homing": {"w": 285, "h": 230, "crop": [6, 6, 291, 236], "scale": 1.0}, "ic_x_mine": {"w": 275, "h": 230, "crop": [6, 6, 281, 236], "scale": 1.0}, "ic_x_orbit": {"w": 258, "h": 230, "crop": [6, 6, 264, 236], "scale": 1.0}, "ic_x_packet": {"w": 978, "h": 702, "crop": [14, 14, 992, 716], "scale": 1.0}, "ic_x_ping": {"w": 262, "h": 223, "crop": [6, 6, 268, 229], "scale": 1.0}, "ic_x_regress": {"w": 868, "h": 852, "crop": [14, 14, 882, 866], "scale": 1.0}, "ic_x_req": {"w": 1001, "h": 872, "crop": [12, 14, 1013, 886], "scale": 1.0}, "ic_x_retry": {"w": 285, "h": 261, "crop": [6, 6, 291, 267], "scale": 1.0}, "ic_x_shield": {"w": 991, "h": 900, "crop": [14, 14, 1005, 914], "scale": 1.0}, "ic_x_storm": {"w": 281, "h": 292, "crop": [6, 6, 287, 298], "scale": 1.0}, "ic_x_tchain": {"w": 953, "h": 866, "crop": [14, 14, 967, 880], "scale": 1.0}, "ic_x_trace": {"w": 297, "h": 205, "crop": [6, 6, 303, 211], "scale": 1.0}, "ic_x_turret": {"w": 349, "h": 248, "crop": [6, 6, 355, 254], "scale": 1.0}, "ic_x_udp": {"w": 269, "h": 266, "crop": [6, 6, 275, 272], "scale": 1.0}, "keg_arm": {"w": 254, "h": 465, "crop": [2, 2, 256, 467], "scale": 1.0}, "keg_body": {"w": 623, "h": 586, "crop": [2, 2, 625, 588], "scale": 1.0}, "keg_foot": {"w": 475, "h": 309, "crop": [2, 2, 477, 311], "scale": 1.0}, "keg_leg": {"w": 206, "h": 463, "crop": [2, 2, 208, 465], "scale": 1.0}, "legion_arm": {"w": 182, "h": 682, "crop": [2, 2, 184, 684], "scale": 1.0}, "legion_body": {"w": 480, "h": 981, "crop": [0, 0, 480, 981], "scale": 1.0}, "legion_foot": {"w": 784, "h": 503, "crop": [2, 2, 786, 505], "scale": 1.0}, "legion_leg": {"w": 205, "h": 872, "crop": [2, 2, 207, 874], "scale": 1.0}, "logq_arm": {"w": 259, "h": 395, "crop": [2, 2, 261, 397], "scale": 1.0}, "logq_body": {"w": 702, "h": 575, "crop": [2, 2, 704, 577], "scale": 1.0}, "logq_foot": {"w": 424, "h": 303, "crop": [2, 2, 426, 305], "scale": 1.0}, "logq_leg": {"w": 182, "h": 389, "crop": [2, 2, 184, 391], "scale": 1.0}, "loreal_arm": {"w": 232, "h": 498, "crop": [2, 2, 234, 500], "scale": 1.0}, "loreal_body": {"w": 792, "h": 605, "crop": [2, 2, 794, 607], "scale": 1.0}, "loreal_foot": {"w": 498, "h": 292, "crop": [2, 2, 500, 294], "scale": 1.0}, "loreal_leg": {"w": 194, "h": 479, "crop": [2, 2, 196, 481], "scale": 1.0}, "manifold": {"w": 366, "h": 406, "crop": [2, 2, 368, 408], "scale": 1.0}, "mars_arm": {"w": 198, "h": 486, "crop": [2, 2, 200, 488], "scale": 1.0}, "mars_body": {"w": 627, "h": 480, "crop": [2, 2, 629, 482], "scale": 1.0}, "mars_foot": {"w": 425, "h": 278, "crop": [2, 2, 427, 280], "scale": 1.0}, "mars_leg": {"w": 185, "h": 454, "crop": [2, 2, 187, 456], "scale": 1.0}, "mast": {"w": 241, "h": 412, "crop": [2, 2, 243, 414], "scale": 1.0}, "menhir": {"w": 400, "h": 971, "crop": [325, 26, 725, 997], "scale": 1.0}, "mond_arm": {"w": 229, "h": 470, "crop": [2, 2, 231, 472], "scale": 1.0}, "mond_body": {"w": 1372, "h": 531, "crop": [2, 2, 1374, 533], "scale": 1.0}, "mond_foot": {"w": 454, "h": 279, "crop": [2, 2, 456, 281], "scale": 1.0}, "mond_leg": {"w": 184, "h": 447, "crop": [2, 2, 186, 449], "scale": 1.0}, "multon_arm": {"w": 230, "h": 485, "crop": [2, 2, 232, 487], "scale": 1.0}, "multon_body": {"w": 625, "h": 538, "crop": [2, 2, 627, 540], "scale": 1.0}, "multon_foot": {"w": 502, "h": 321, "crop": [2, 2, 504, 323], "scale": 1.0}, "multon_leg": {"w": 210, "h": 475, "crop": [2, 2, 212, 477], "scale": 1.0}, "node_arm": {"w": 217, "h": 422, "crop": [2, 2, 219, 424], "scale": 1.0}, "node_body": {"w": 502, "h": 624, "crop": [2, 2, 504, 626], "scale": 1.0}, "node_foot": {"w": 379, "h": 258, "crop": [2, 2, 381, 260], "scale": 1.0}, "node_leg": {"w": 180, "h": 401, "crop": [2, 2, 182, 403], "scale": 1.0}, "orb_arm": {"w": 202, "h": 419, "crop": [2, 2, 204, 421], "scale": 1.0}, "orb_body": {"w": 577, "h": 570, "crop": [2, 2, 579, 572], "scale": 1.0}, "orb_foot": {"w": 411, "h": 275, "crop": [2, 2, 413, 277], "scale": 1.0}, "orb_leg": {"w": 177, "h": 401, "crop": [2, 2, 179, 403], "scale": 1.0}, "outage_arm": {"w": 429, "h": 464, "crop": [2, 3, 431, 467], "scale": 1.0}, "outage_body": {"w": 1065, "h": 613, "crop": [2, 2, 1067, 615], "scale": 1.0}, "outage_foot": {"w": 391, "h": 296, "crop": [2, 2, 393, 298], "scale": 1.0}, "outage_leg": {"w": 318, "h": 494, "crop": [2, 2, 320, 496], "scale": 1.0}, "panel_arm": {"w": 241, "h": 440, "crop": [2, 2, 243, 442], "scale": 1.0}, "panel_body": {"w": 617, "h": 568, "crop": [2, 2, 619, 570], "scale": 1.0}, "panel_foot": {"w": 465, "h": 269, "crop": [2, 2, 467, 271], "scale": 1.0}, "panel_leg": {"w": 203, "h": 404, "crop": [2, 2, 205, 406], "scale": 1.0}, "patch": {"w": 185, "h": 668, "crop": [2, 2, 187, 670], "scale": 1.0}, "pdu": {"w": 224, "h": 260, "crop": [2, 2, 226, 262], "scale": 1.0}, "petfood_arm": {"w": 192, "h": 410, "crop": [2, 2, 194, 412], "scale": 1.0}, "petfood_body": {"w": 583, "h": 594, "crop": [2, 2, 585, 596], "scale": 1.0}, "petfood_foot": {"w": 355, "h": 255, "crop": [2, 2, 357, 257], "scale": 1.0}, "petfood_leg": {"w": 174, "h": 368, "crop": [2, 2, 176, 370], "scale": 1.0}, "pg_arm": {"w": 201, "h": 390, "crop": [2, 2, 203, 392], "scale": 1.0}, "pg_body": {"w": 685, "h": 631, "crop": [2, 2, 687, 633], "scale": 1.0}, "pg_foot": {"w": 362, "h": 257, "crop": [2, 2, 364, 259], "scale": 1.0}, "pg_leg": {"w": 184, "h": 370, "crop": [2, 2, 186, 372], "scale": 1.0}, "prog_arm": {"w": 198, "h": 430, "crop": [2, 2, 200, 432], "scale": 1.0}, "prog_body": {"w": 664, "h": 609, "crop": [2, 2, 666, 611], "scale": 1.0}, "prog_foot": {"w": 436, "h": 279, "crop": [2, 2, 438, 281], "scale": 1.0}, "prog_leg": {"w": 182, "h": 429, "crop": [2, 2, 184, 431], "scale": 1.0}, "rack": {"w": 180, "h": 420, "crop": [2, 2, 182, 422], "scale": 1.0}, "rack_b": {"w": 178, "h": 417, "crop": [2, 2, 180, 419], "scale": 1.0}, "rack_open": {"w": 284, "h": 424, "crop": [2, 2, 286, 426], "scale": 1.0}, "repl_arm": {"w": 368, "h": 445, "crop": [2, 2, 370, 447], "scale": 1.0}, "repl_body": {"w": 1357, "h": 553, "crop": [2, 2, 1359, 555], "scale": 1.0}, "repl_foot": {"w": 417, "h": 249, "crop": [2, 2, 419, 251], "scale": 1.0}, "repl_leg": {"w": 284, "h": 449, "crop": [2, 2, 286, 451], "scale": 1.0}, "royal_arm": {"w": 209, "h": 401, "crop": [2, 2, 211, 403], "scale": 1.0}, "royal_body": {"w": 947, "h": 596, "crop": [2, 2, 949, 598], "scale": 1.0}, "royal_foot": {"w": 368, "h": 243, "crop": [2, 2, 370, 245], "scale": 1.0}, "royal_leg": {"w": 164, "h": 384, "crop": [2, 3, 166, 387], "scale": 1.0}, "rstorm_arm": {"w": 263, "h": 414, "crop": [2, 2, 265, 416], "scale": 1.0}, "rstorm_body": {"w": 803, "h": 649, "crop": [2, 2, 805, 651], "scale": 1.0}, "rstorm_foot": {"w": 413, "h": 245, "crop": [2, 2, 415, 247], "scale": 1.0}, "rstorm_leg": {"w": 236, "h": 386, "crop": [2, 2, 238, 388], "scale": 1.0}, "scanner": {"w": 280, "h": 267, "crop": [2, 2, 282, 269], "scale": 1.0}, "sdesk_body": {"w": 1435, "h": 984, "crop": [2, 2, 1437, 986], "scale": 1.0}, "sk_ba_consult_arm": {"w": 377, "h": 1262, "crop": [2, 2, 379, 1264], "scale": 1.0}, "sk_ba_consult_body": {"w": 1022, "h": 798, "crop": [8, 8, 1030, 806], "scale": 1.0}, "sk_ba_consult_foot": {"w": 1248, "h": 751, "crop": [2, 2, 1250, 753], "scale": 1.0}, "sk_ba_consult_leg": {"w": 291, "h": 1274, "crop": [2, 2, 293, 1276], "scale": 1.0}, "sk_ba_deadline_arm": {"w": 380, "h": 1269, "crop": [2, 2, 382, 1271], "scale": 1.0}, "sk_ba_deadline_body": {"w": 1093, "h": 856, "crop": [8, 8, 1101, 864], "scale": 1.0}, "sk_ba_deadline_foot": {"w": 1319, "h": 764, "crop": [2, 2, 1321, 766], "scale": 1.0}, "sk_ba_deadline_leg": {"w": 309, "h": 1269, "crop": [2, 2, 311, 1271], "scale": 1.0}, "sk_ba_platinum_arm": {"w": 351, "h": 1250, "crop": [2, 2, 353, 1252], "scale": 1.0}, "sk_ba_platinum_body": {"w": 1025, "h": 775, "crop": [8, 8, 1033, 783], "scale": 1.0}, "sk_ba_platinum_foot": {"w": 1246, "h": 749, "crop": [2, 2, 1248, 751], "scale": 1.0}, "sk_ba_platinum_leg": {"w": 289, "h": 1252, "crop": [2, 2, 291, 1254], "scale": 1.0}, "sk_qa_crash_arm": {"w": 287, "h": 1363, "crop": [2, 2, 289, 1365], "scale": 1.0}, "sk_qa_crash_body": {"w": 1154, "h": 935, "crop": [8, 8, 1162, 943], "scale": 1.0}, "sk_qa_crash_foot": {"w": 1294, "h": 775, "crop": [2, 2, 1296, 777], "scale": 1.0}, "sk_qa_crash_leg": {"w": 251, "h": 1251, "crop": [2, 2, 253, 1253], "scale": 1.0}, "sk_qa_onyx_arm": {"w": 269, "h": 1251, "crop": [2, 2, 271, 1253], "scale": 1.0}, "sk_qa_onyx_body": {"w": 926, "h": 758, "crop": [8, 8, 934, 766], "scale": 1.0}, "sk_qa_onyx_foot": {"w": 1245, "h": 736, "crop": [2, 2, 1247, 738], "scale": 1.0}, "sk_qa_onyx_leg": {"w": 253, "h": 1278, "crop": [2, 2, 255, 1280], "scale": 1.0}, "sk_qa_sandbox_arm": {"w": 271, "h": 1254, "crop": [2, 2, 273, 1256], "scale": 1.0}, "sk_qa_sandbox_body": {"w": 954, "h": 767, "crop": [8, 8, 962, 775], "scale": 1.0}, "sk_qa_sandbox_foot": {"w": 1254, "h": 740, "crop": [2, 2, 1256, 742], "scale": 1.0}, "sk_qa_sandbox_leg": {"w": 250, "h": 1259, "crop": [2, 2, 252, 1261], "scale": 1.0}, "sk_ser_breach_arm": {"w": 384, "h": 1274, "crop": [2, 2, 386, 1276], "scale": 1.0}, "sk_ser_breach_body": {"w": 1204, "h": 840, "crop": [8, 8, 1212, 848], "scale": 1.0}, "sk_ser_breach_foot": {"w": 1212, "h": 849, "crop": [2, 3, 1214, 852], "scale": 1.0}, "sk_ser_breach_leg": {"w": 318, "h": 1245, "crop": [2, 2, 320, 1247], "scale": 1.0}, "sk_ser_cloud_arm": {"w": 374, "h": 1256, "crop": [2, 2, 376, 1258], "scale": 1.0}, "sk_ser_cloud_body": {"w": 1077, "h": 766, "crop": [8, 8, 1085, 774], "scale": 1.0}, "sk_ser_cloud_foot": {"w": 1214, "h": 840, "crop": [2, 2, 1216, 842], "scale": 1.0}, "sk_ser_cloud_leg": {"w": 321, "h": 1254, "crop": [2, 2, 323, 1256], "scale": 1.0}, "sk_ser_cobalt_arm": {"w": 379, "h": 1277, "crop": [2, 2, 381, 1279], "scale": 1.0}, "sk_ser_cobalt_body": {"w": 1198, "h": 846, "crop": [8, 8, 1206, 854], "scale": 1.0}, "sk_ser_cobalt_foot": {"w": 1203, "h": 834, "crop": [2, 2, 1205, 836], "scale": 1.0}, "sk_ser_cobalt_leg": {"w": 320, "h": 1247, "crop": [2, 2, 322, 1249], "scale": 1.0}, "sk_trc_intercept_arm": {"w": 392, "h": 1260, "crop": [2, 2, 394, 1262], "scale": 1.0}, "sk_trc_intercept_body": {"w": 1077, "h": 910, "crop": [8, 8, 1085, 918], "scale": 1.0}, "sk_trc_intercept_foot": {"w": 1315, "h": 823, "crop": [2, 2, 1317, 825], "scale": 1.0}, "sk_trc_intercept_leg": {"w": 255, "h": 1325, "crop": [2, 2, 257, 1327], "scale": 1.0}, "sk_trc_sapphire_arm": {"w": 387, "h": 1272, "crop": [2, 2, 389, 1274], "scale": 1.0}, "sk_trc_sapphire_body": {"w": 916, "h": 761, "crop": [8, 8, 924, 769], "scale": 1.0}, "sk_trc_sapphire_foot": {"w": 1257, "h": 804, "crop": [2, 2, 1259, 806], "scale": 1.0}, "sk_trc_sapphire_leg": {"w": 234, "h": 1248, "crop": [2, 2, 236, 1250], "scale": 1.0}, "sk_trc_still_arm": {"w": 399, "h": 1254, "crop": [2, 2, 401, 1256], "scale": 1.0}, "sk_trc_still_body": {"w": 895, "h": 760, "crop": [8, 8, 903, 768], "scale": 1.0}, "sk_trc_still_foot": {"w": 1289, "h": 815, "crop": [2, 2, 1291, 817], "scale": 1.0}, "sk_trc_still_leg": {"w": 234, "h": 1251, "crop": [2, 2, 236, 1253], "scale": 1.0}, "sk_utrace_arctic_arm": {"w": 243, "h": 837, "crop": [2, 2, 245, 839], "scale": 1.0}, "sk_utrace_arctic_body": {"w": 738, "h": 565, "crop": [2, 2, 740, 567], "scale": 1.0}, "sk_utrace_arctic_foot": {"w": 402, "h": 265, "crop": [2, 2, 404, 267], "scale": 1.0}, "sk_utrace_arctic_leg": {"w": 224, "h": 826, "crop": [2, 2, 226, 828], "scale": 1.0}, "sk_utrace_storm_arm": {"w": 280, "h": 927, "crop": [2, 2, 282, 929], "scale": 1.0}, "sk_utrace_storm_body": {"w": 713, "h": 569, "crop": [2, 2, 715, 571], "scale": 1.0}, "sk_utrace_storm_foot": {"w": 397, "h": 250, "crop": [2, 2, 399, 252], "scale": 1.0}, "sk_utrace_storm_leg": {"w": 220, "h": 872, "crop": [2, 2, 222, 874], "scale": 1.0}, "sk_utrace_zen_arm": {"w": 242, "h": 806, "crop": [2, 2, 244, 808], "scale": 1.0}, "sk_utrace_zen_body": {"w": 742, "h": 567, "crop": [2, 2, 744, 569], "scale": 1.0}, "sk_utrace_zen_foot": {"w": 362, "h": 244, "crop": [2, 2, 364, 246], "scale": 1.0}, "sk_utrace_zen_leg": {"w": 206, "h": 771, "crop": [2, 2, 208, 773], "scale": 1.0}, "spool": {"w": 352, "h": 409, "crop": [2, 3, 354, 412], "scale": 1.0}, "switch": {"w": 280, "h": 374, "crop": [2, 2, 282, 376], "scale": 1.0}, "switchstack": {"w": 203, "h": 451, "crop": [2, 2, 205, 453], "scale": 1.0}, "sword": {"w": 1311, "h": 358, "crop": [2, 2, 1313, 360], "scale": 1.0}, "tapelib": {"w": 315, "h": 681, "crop": [2, 2, 317, 683], "scale": 1.0}, "tray": {"w": 325, "h": 367, "crop": [2, 2, 327, 369], "scale": 1.0}, "turret": {"w": 360, "h": 418, "crop": [14, 14, 374, 432], "scale": 1.0}, "ups": {"w": 298, "h": 227, "crop": [2, 2, 300, 229], "scale": 1.0}, "vetis_arm": {"w": 206, "h": 415, "crop": [2, 2, 208, 417], "scale": 1.0}, "vetis_body": {"w": 594, "h": 663, "crop": [2, 2, 596, 665], "scale": 1.0}, "vetis_foot": {"w": 379, "h": 253, "crop": [2, 2, 381, 255], "scale": 1.0}, "vetis_leg": {"w": 179, "h": 412, "crop": [2, 2, 181, 414], "scale": 1.0}};

diff --git a/live/setting-look.js b/live/setting-look.js
@@ -60,7 +60,7 @@
   const RIGS = {
     hero:  { body: 70, hipY: 27, leg: 35, legW: 16, lift: 0.11, D: 0.35, hipW: 11, foot: [27, 15], shY: SIM.RIG.shY, shW: SIM.RIG.shX, arm: SIM.RIG.arm, armW: 14, stride: 92, bob: 6, flip: true },
     node:  { body: 60, hipY: 26, leg: 31, legW: 13, hipW: 14, foot: [21, 12], shY: 50, shW: 30, arm: 24, armW: 11, stride: 52, bob: 3, flip: true },
-    legion: { body: 64, hipY: 26, leg: 31, legW: 13, hipW: 14, foot: [21, 12], shY: 50, shW: 30, arm: 24, armW: 11, stride: 52, bob: 3, flip: true },
+    legion: { body: 64, hipY: 26, leg: 31, legW: 13, hipW: 8, foot: [21, 12], shY: 50, shW: 11, arm: 24, armW: 11, stride: 52, bob: 3, flip: true },   // narrow shoulders and hips (measured on legion_body)
     panel: { body: 58, hipY: 24, leg: 29, legW: 11, hipW: 10, foot: [19, 11], shY: 44, shW: 34, arm: 21, armW: 10, stride: 48, bob: 3, flip: true },
     orb:   { body: 68, hipY: 25, leg: 30, legW: 13, hipW: 16, foot: [23, 13], shY: 46, shW: 33, arm: 23, armW: 12, stride: 52, bob: 3, flip: true },
     keg:   { body: 88, hipY: 29, leg: 34, legW: 18, hipW: 22, foot: [29, 15], shY: 64, shW: 42, arm: 29, armW: 16, stride: 62, bob: 4, flip: true },

diff --git a/live/setting.js b/live/setting.js
@@ -359,7 +359,7 @@
   };
   // the hero rig shared by the sim and the scene: shoulder height and half-width (shX: the shoulder joint's centre on the body's side
   // outline, round 24), arm length, and the tool's tip from the hand (gun forward, gunUp up): the trace strike starts there
-  const RIG = { shY: 55, shX: 42, arm: 38, gun: 30, gunUp: 18 };
+  const RIG = { shY: 55, shX: 10, arm: 38, gun: 30, gunUp: 18 };   // Asterix: a torso about 20 px wide at the shoulders (measured)
 
   // the shop's permanent upgrades (meta.js): price 30 × the next rank
   const SHOP = [

diff --git a/tools/ingest.py b/tools/ingest.py
@@ -101,6 +101,17 @@ for s in want:
         done += [n for n in names if not n.startswith('_')]
     elif s in SINGLES:
         done.append(s)
+# bodies whose torso is off the picture's centre (hair, wings or a helmet stick out on one side): padded with transparency so the
+# torso's middle, measured at this share of the height from the bottom, is the picture's centre, where the rig puts the hips
+# (ref2game.json lists them in prep's notrim, so the padding stays)
+CENTRE = {'hr_asterix_body': 0.34, 'legion_body': 0.34}
+for n in done:
+    if n not in CENTRE: continue
+    from PIL import Image
+    im = Image.open(f'art/gen/{n}.png').convert('RGBA'); w, h = im.size; row = im.getchannel('A').crop((0, int(h * (1 - CENTRE[n])), w, int(h * (1 - CENTRE[n])) + 1))
+    xs = [x for x in range(w) if row.getpixel((x, 0)) > 60]; mid = (xs[0] + xs[-1]) / 2 if xs else w / 2
+    half = int(max(mid, w - mid) + 0.5); out = Image.new('RGBA', (half * 2, h)); out.paste(im, (half - int(mid + 0.5), 0)); out.save(f'art/gen/{n}.png')
+    print(f'{n}: torso centre {mid:.0f} of {w} px, padded to {half * 2}')
 for n in done:
     m = f'art/logs/{n}.placeholder'
     if os.path.exists(m): os.remove(m)
